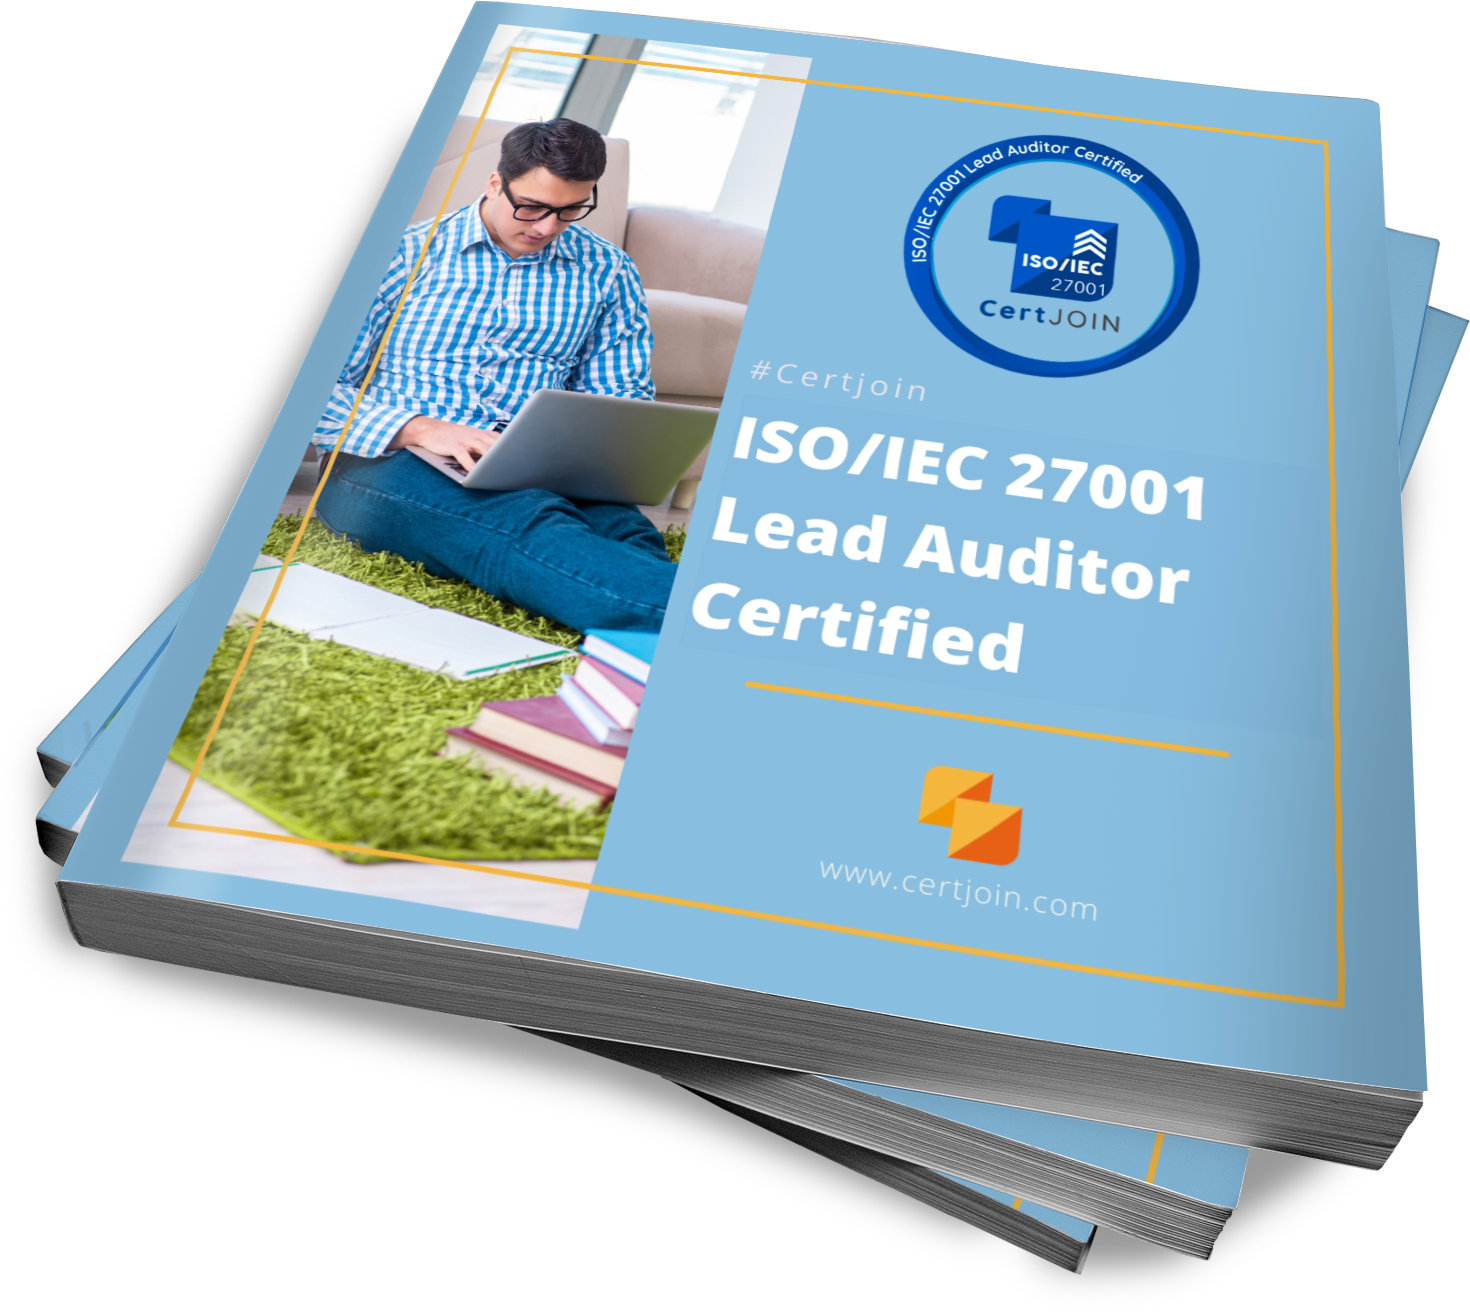
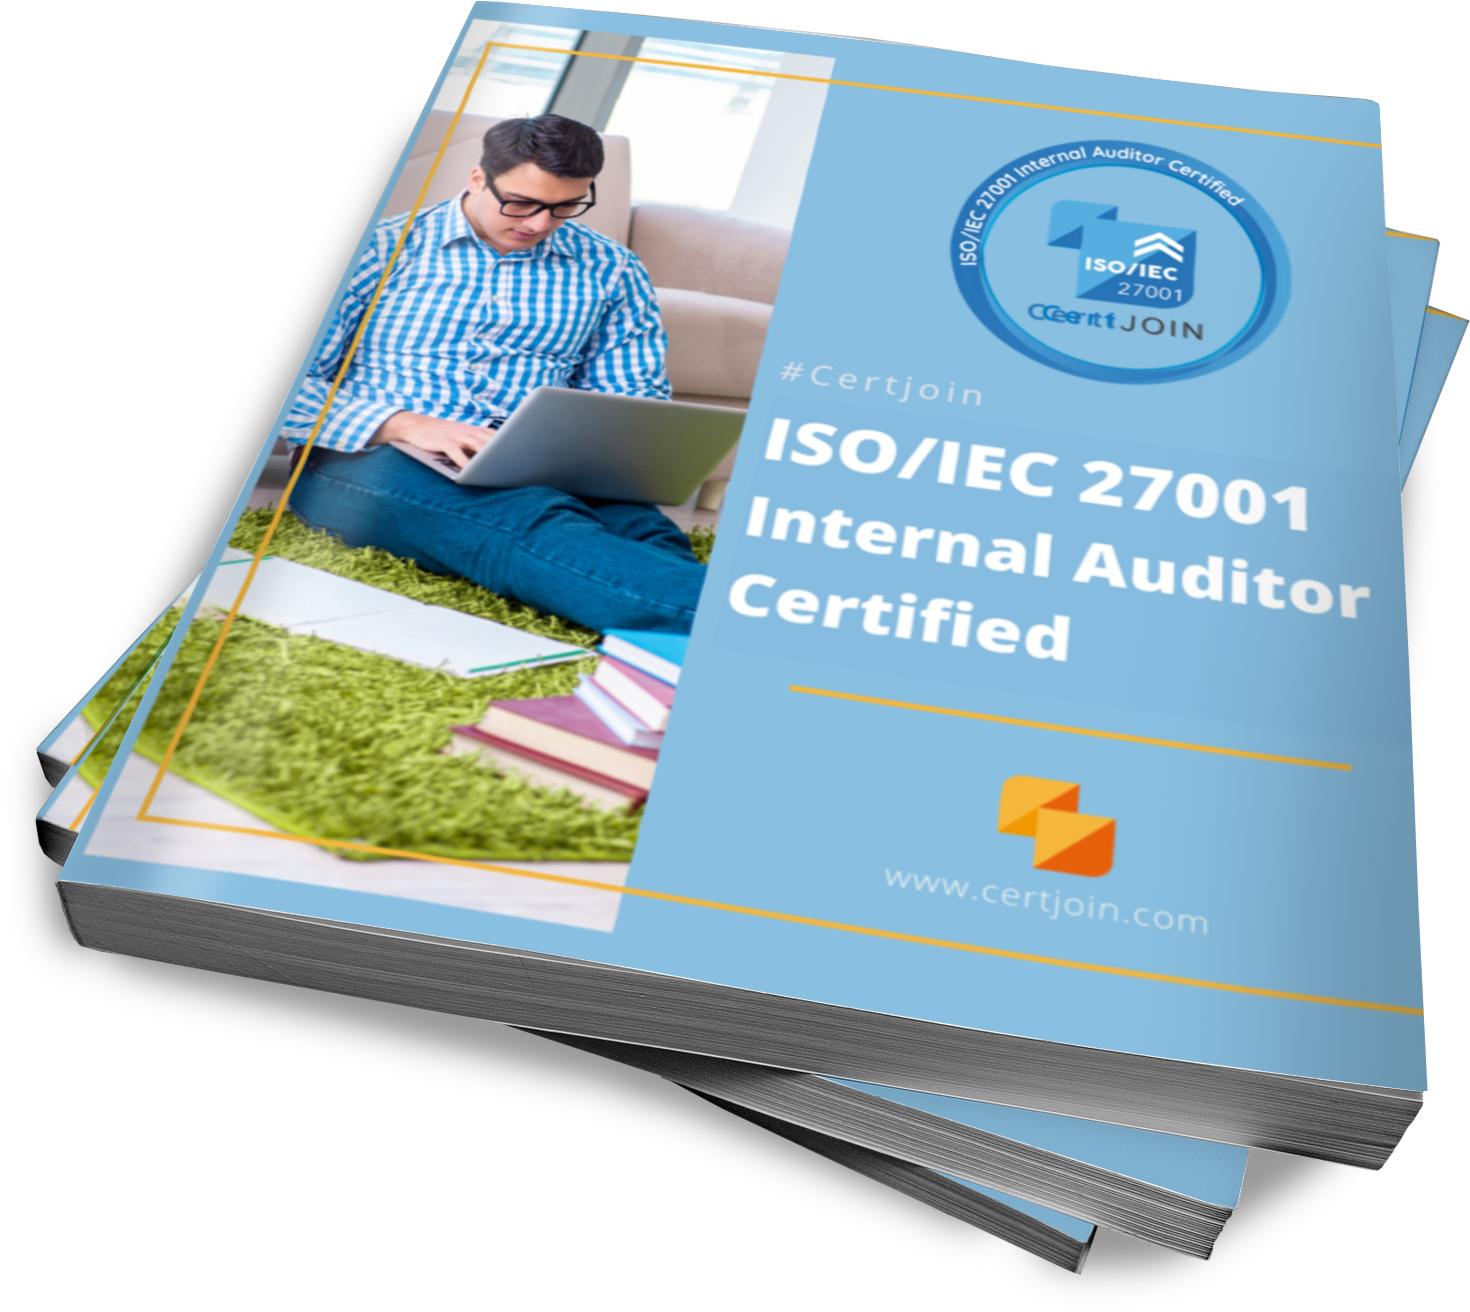
Commit message

Changed region(s): [[0.0306, 0.0, 0.9796, 0.7812], [0.949, 0.1562, 0.9796, 0.1875], [0.7653, 0.875, 0.7959, 0.9062]]

diff --git a/curso-oficial-ISO-27001-auditor-certijoin.html b/curso-oficial-ISO-27001-auditor-certijoin.html
@@ -279,7 +279,7 @@ Libro Oficial
 Acceso descargable al libro oficial de estudio con todo el contenido necesario para obtener la certificación internacional.
 <br>
 <br>
-<img width="65%" src="./recursos/materialestudioISO27001A.png">
+<img width="65%" src="./recursos/materialestudioISO27001IA.png">
 
 
 </div>
@@ -351,7 +351,7 @@ Certificado Seguridad Cero
 Al terminar el curso oficial de certifiación, emitiremos un certificado de finalización a nombre de Seguridad Cero por 47 horas académicas (32 Horas Curso Oficial + 3 Horas Minicursos).
 <br>
 <br>
-<img width="65%" src="./recursos/CertificadoISO27001LA.jpg">
+<img width="65%" src="./recursos/CertificadoISO27001A.jpg">
 
 </div>
 </section>

diff --git a/curso-oficial-ISO-27001-lead-auditor-certijoin.html b/curso-oficial-ISO-27001-lead-auditor-certijoin.html
@@ -277,7 +277,7 @@ Libro Oficial
 Acceso descargable al libro oficial de estudio con todo el contenido necesario para obtener la certificación internacional.
 <br>
 <br>
-<img width="65%" src="./recursos/materialestudioISO27001Ia.png">
+<img width="65%" src="./recursos/plantillaISO27001LA.jpg">
 
 
 </div>

diff --git a/curso-oficial-ISO-27001-implementer-certijoin.html b/curso-oficial-ISO-27001-implementer-certijoin.html
@@ -366,7 +366,7 @@ Plantillas
 Acceso a nuestras plantillas de presentación de informes de diagnóstico de seguridad de la información basado en la norma ISO 27001.
 <br>
 <br>
-<img width="65%" src="./recursos/informeISO27001F.png">
+<img width="65%" src="./recursos/plantillaISO27001I.jpg">
 
 <br>
 
